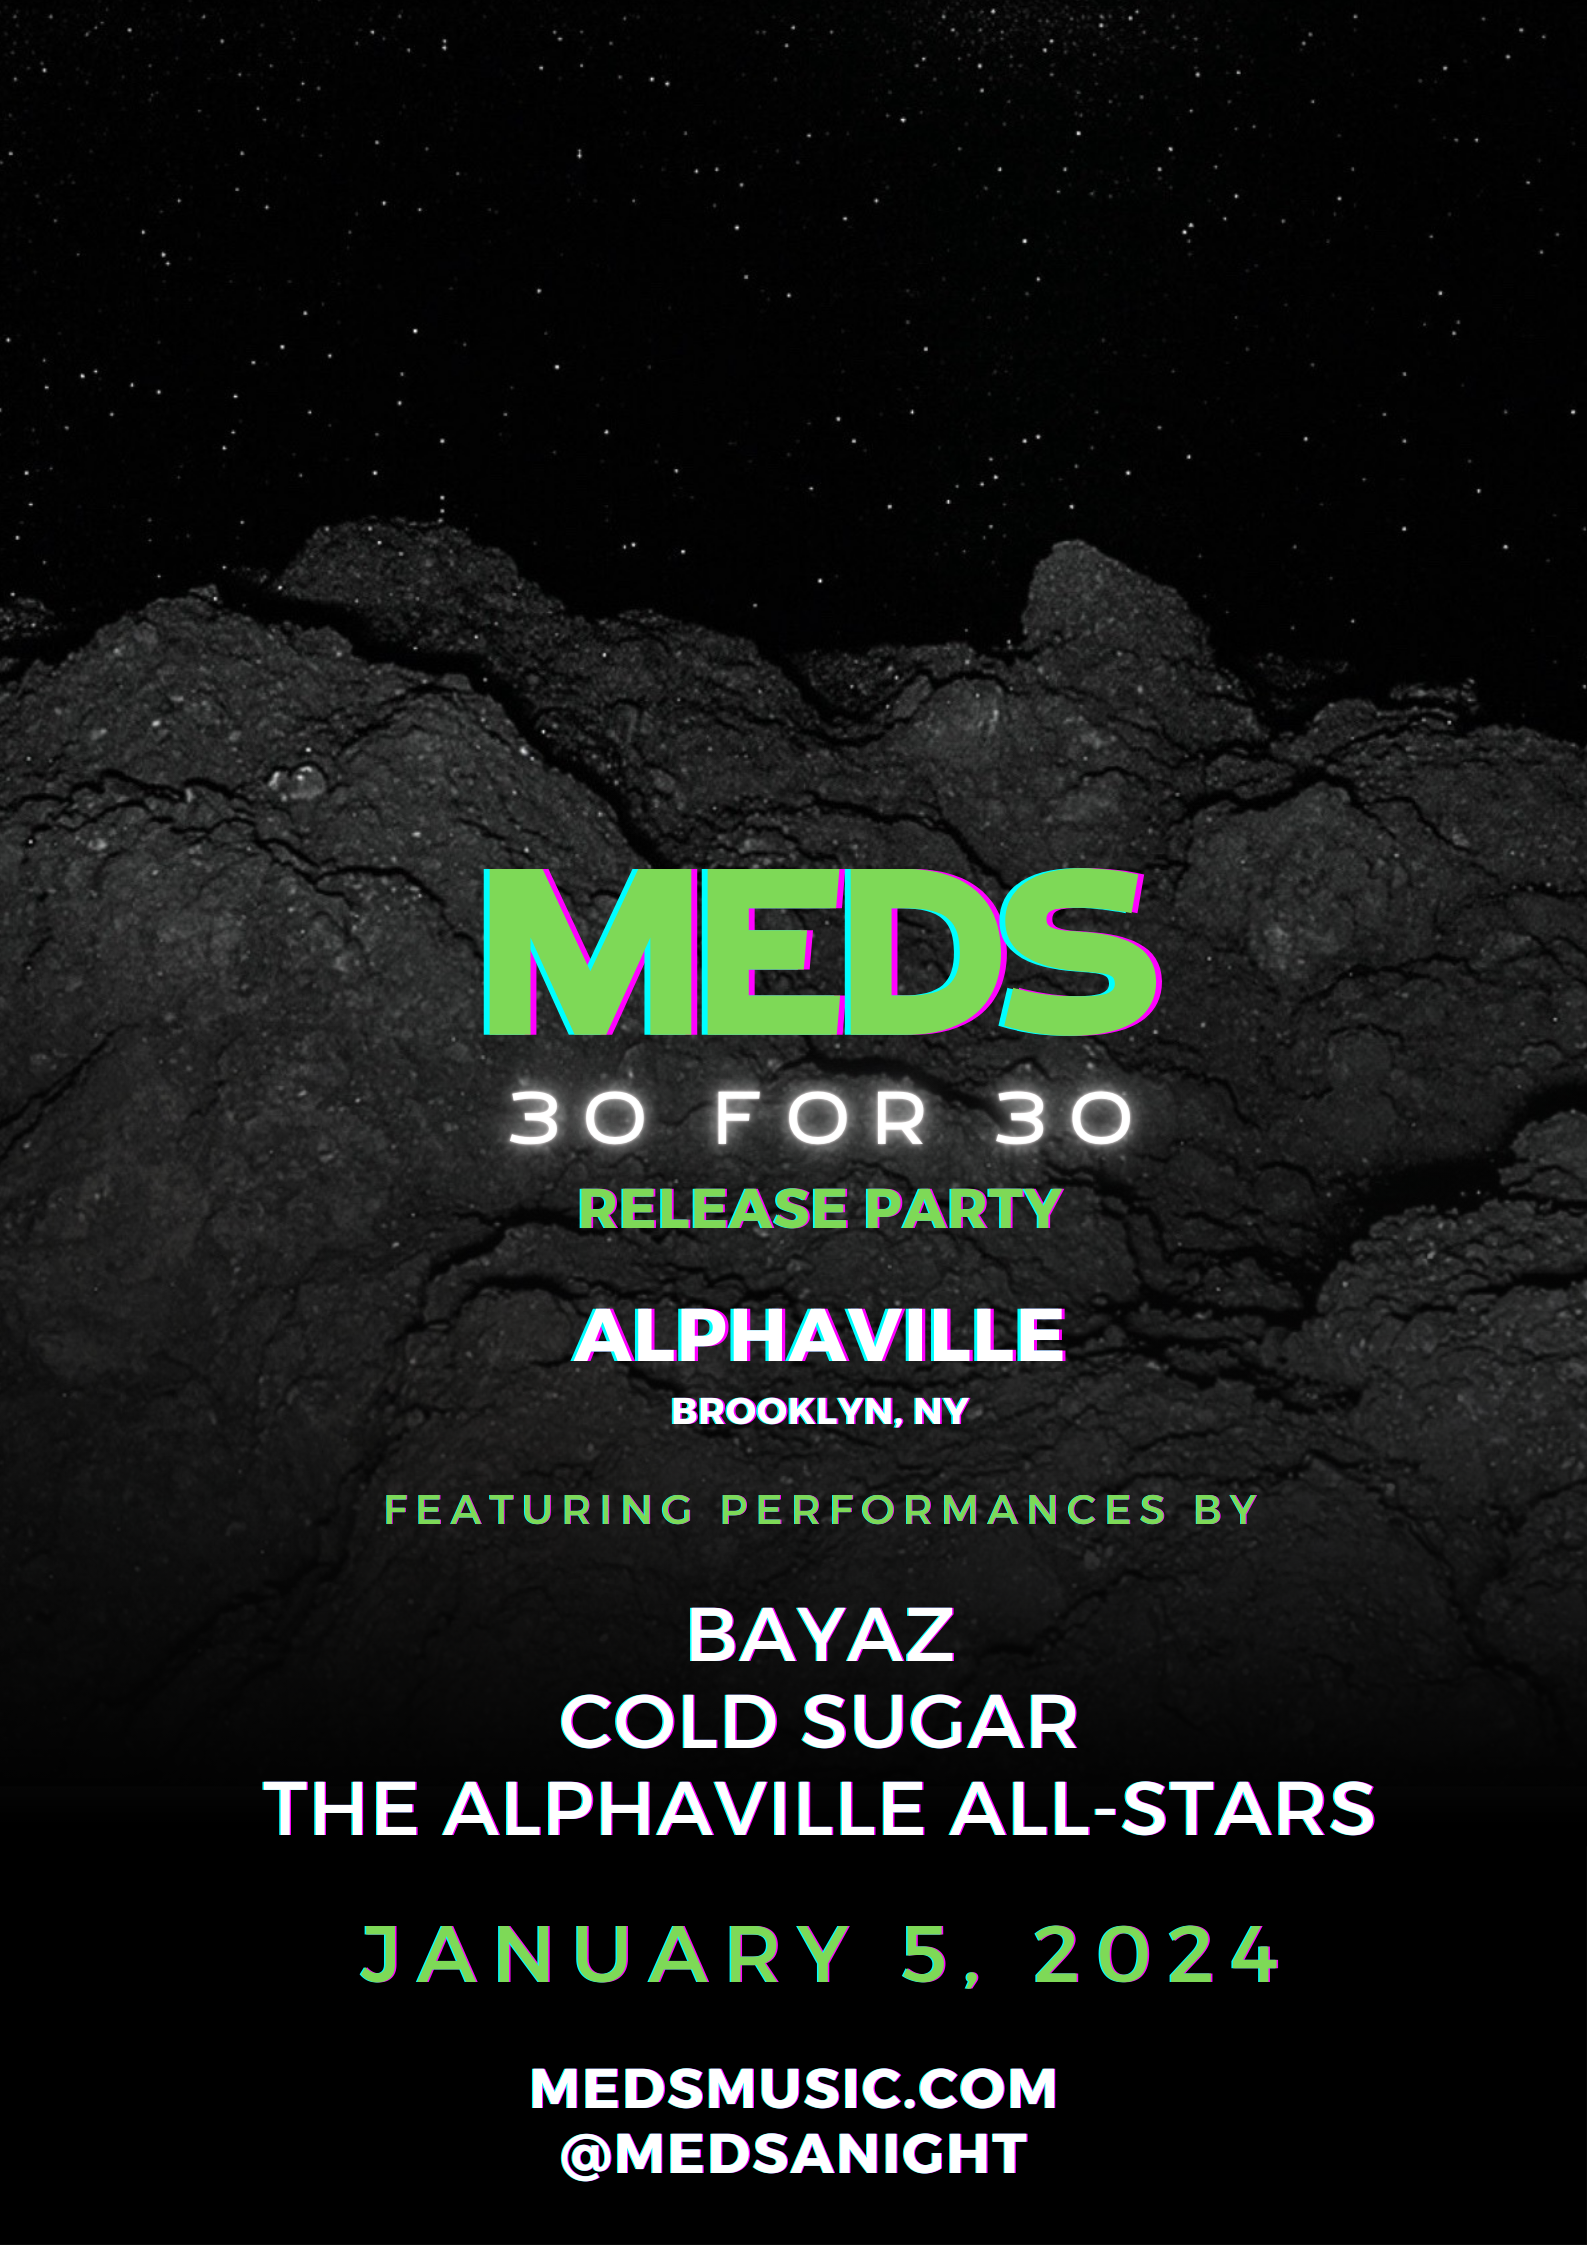
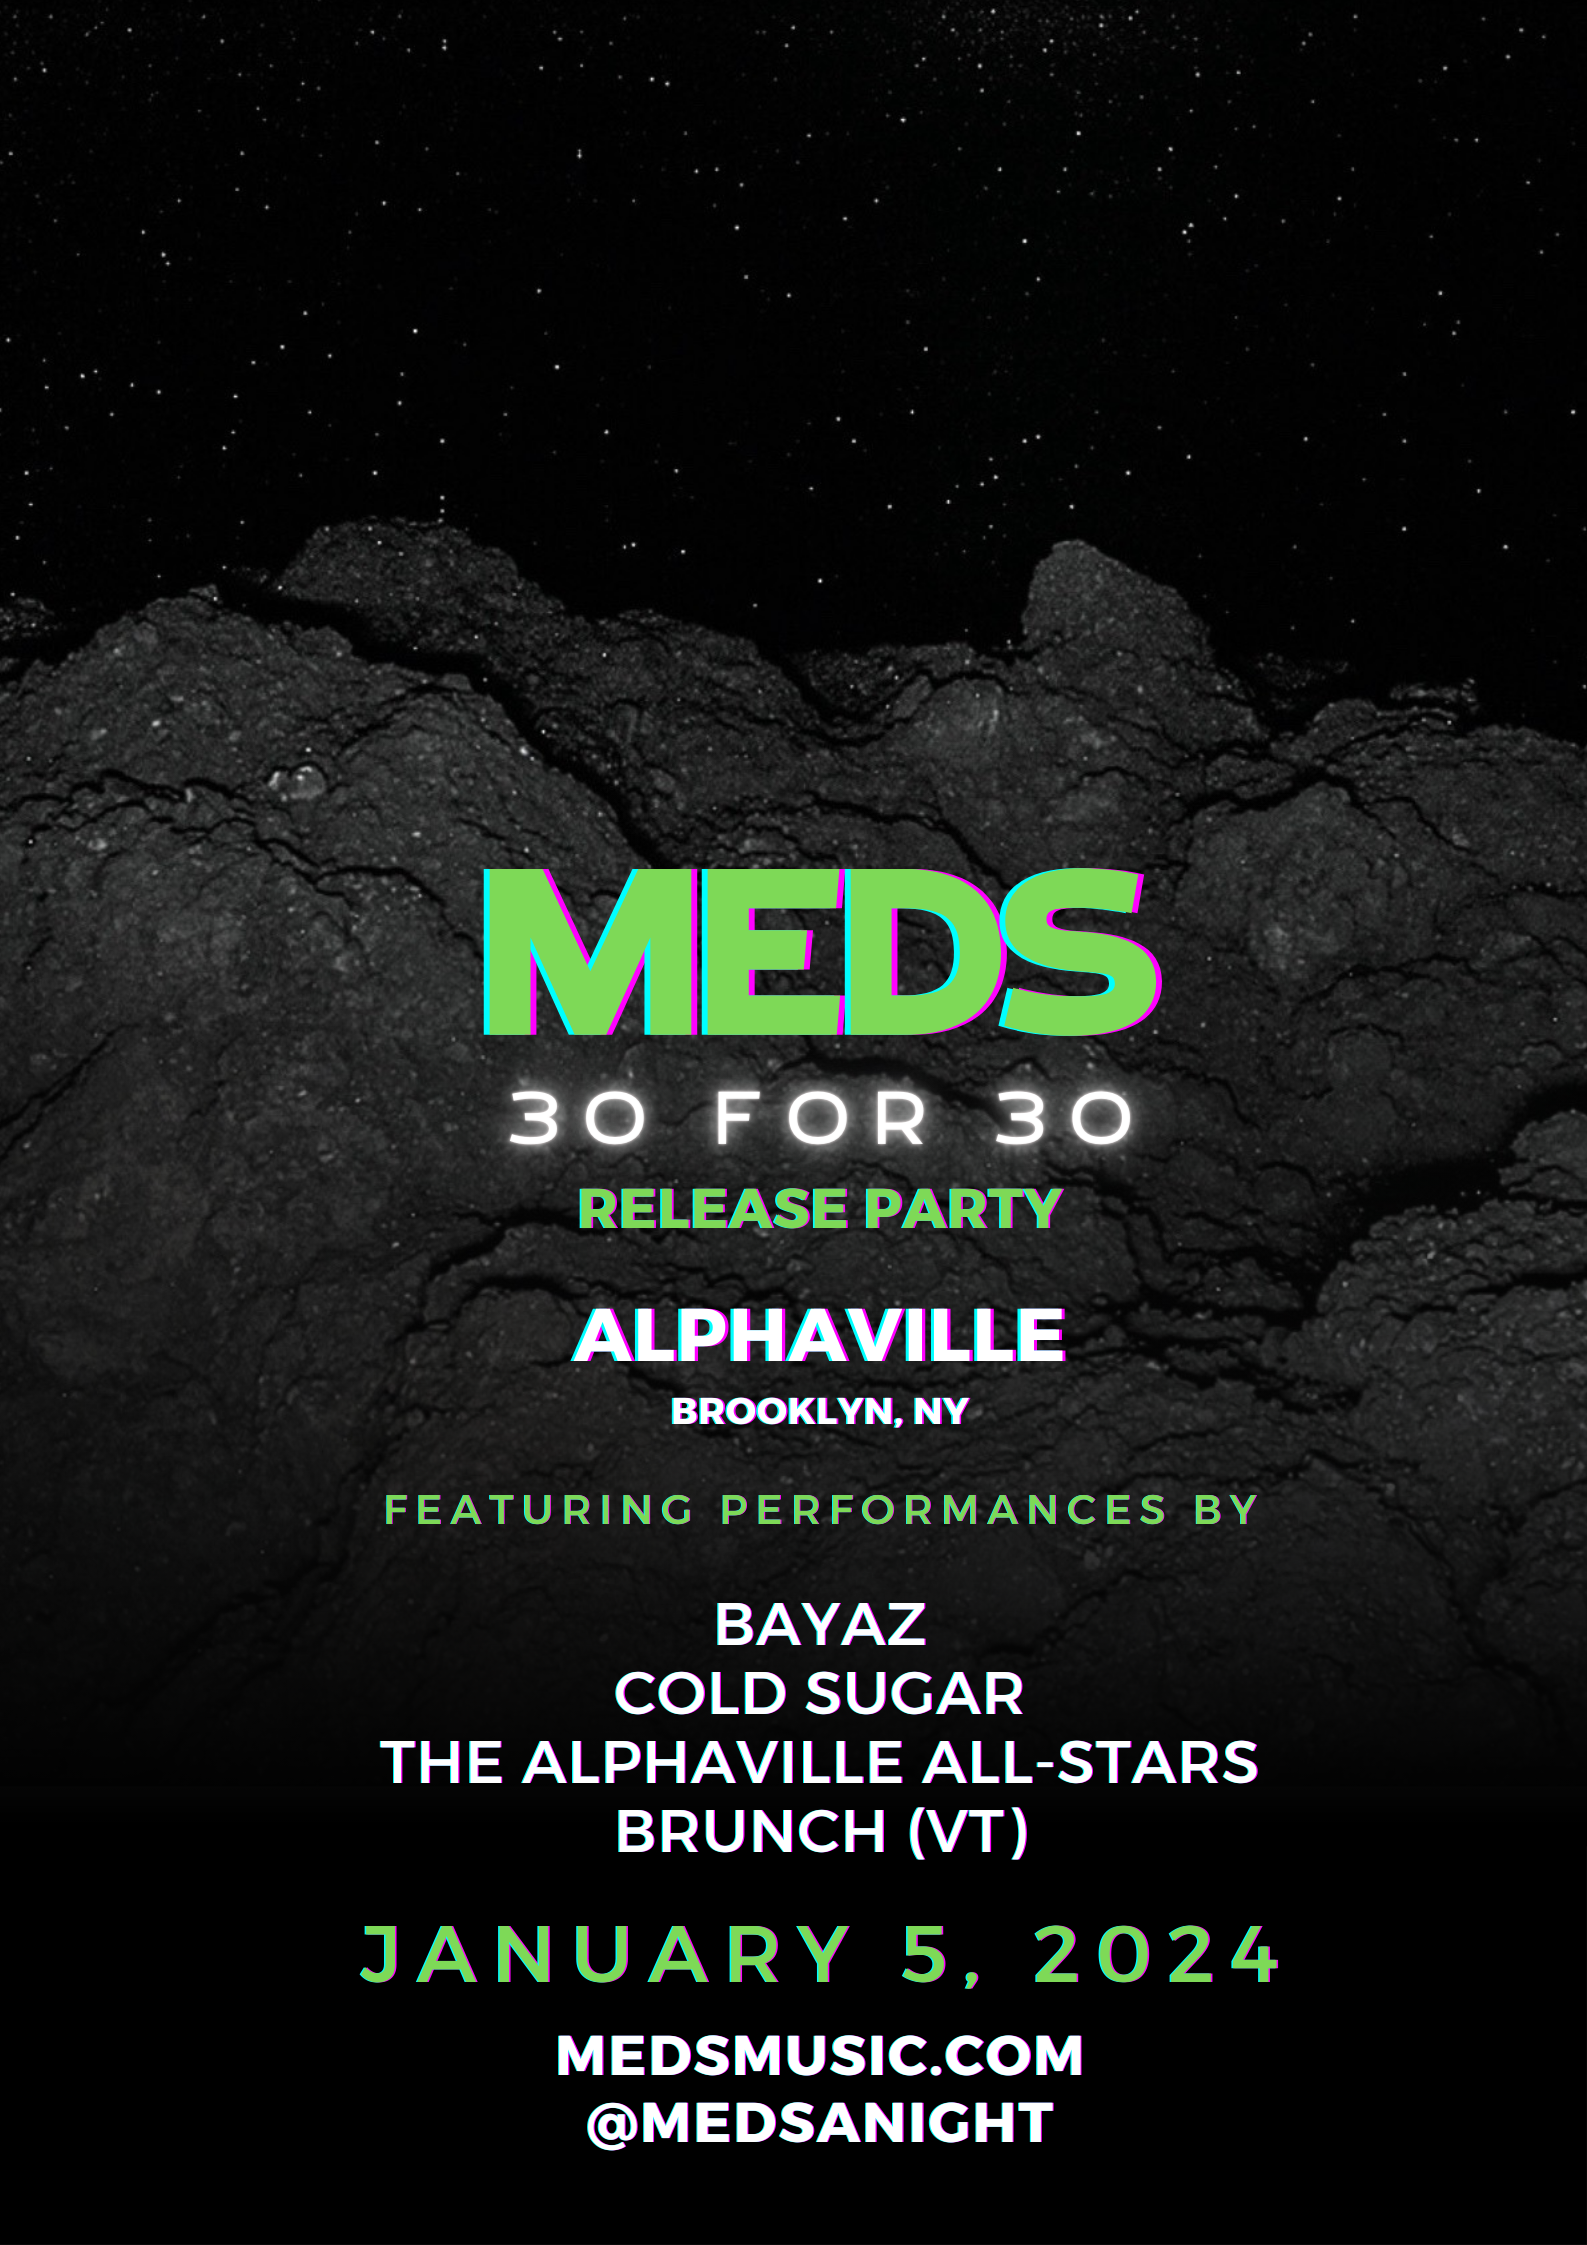
new poster

Changed region(s): [[0.1544, 0.7171, 0.8645, 0.8419], [0.3396, 0.9042, 0.6793, 0.9666]]

diff --git a/meds/src/pages/Tour.jsx b/meds/src/pages/Tour.jsx
@@ -49,6 +49,10 @@ const Tour = () => {
                                     <Link className="supportA" target="_blank" to="http://www.instagram.com/alphavillebk">
                                         The Alphaville All-Stars
                                     </Link>
+                                    <br />
+                                    <Link className="supportA" target="_blank" to="https://open.spotify.com/artist/20u1eNEFrgn9XCwUGuBNt9?si=bHgTbLzwSd2X6fp2WMtZZw">
+                                        Brunch (VT)
+                                    </Link>
                                 </i>
                                 <br />
                             </td>
